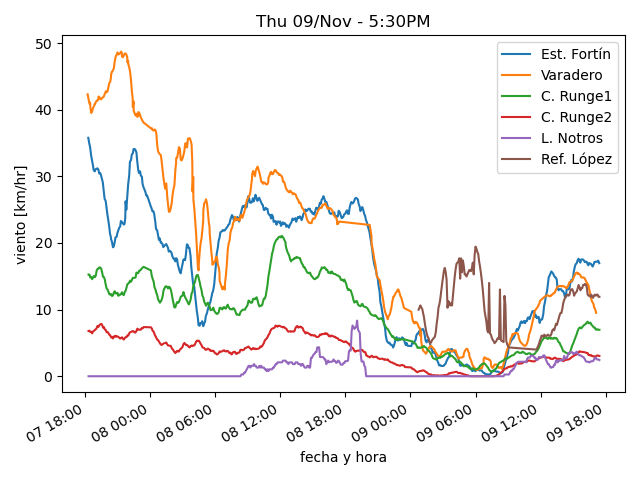
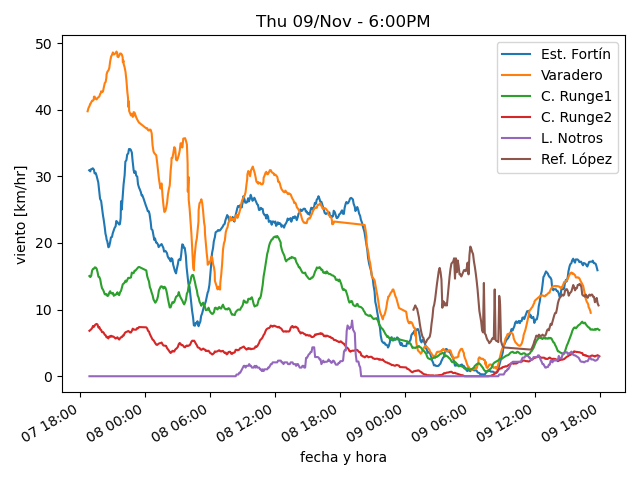
actualiza datos

diff --git a/estaciones/estacion3.html b/estaciones/estacion3.html
@@ -18,32 +18,32 @@
     </tr>
     <tr>
      <td class="stats_data">
-      5:24PM
+      5:54PM
      </td>
     </tr>
     <tr>
      <td class="stats_data">
-      18.8⁰C
+      18.3⁰C
      </td>
     </tr>
     <tr>
      <td class="stats_data">
-      -2.3⁰C
+      -1.8⁰C
      </td>
     </tr>
     <tr>
      <td class="stats_data">
-      23.9%
+      25.4%
      </td>
     </tr>
     <tr>
      <td class="stats_data">
-      1000.54hPa
+      1000.34hPa
      </td>
     </tr>
     <tr>
      <td class="stats_data">
-      4.8/6.6 km/hr WNW
+      4.6/6.2 km/hr WNW
      </td>
     </tr>
     <tr>
@@ -53,12 +53,12 @@
     </tr>
     <tr>
      <td class="stats_data">
-      5.0
+      4.0
      </td>
     </tr>
     <tr>
      <td class="stats_data">
-      491.1 W/m²
+      399.9 W/m²
      </td>
     </tr>
    </tbody>

diff --git a/estaciones/estacion4.html b/estaciones/estacion4.html
@@ -18,32 +18,32 @@
     </tr>
     <tr>
      <td class="stats_data">
-      5:24PM
+      5:54PM
      </td>
     </tr>
     <tr>
      <td class="stats_data">
-      18.8⁰C
+      19.4⁰C
      </td>
     </tr>
     <tr>
      <td class="stats_data">
-      -2.8⁰C
+      -2.2⁰C
      </td>
     </tr>
     <tr>
      <td class="stats_data">
-      22.9%
+      23.1%
      </td>
     </tr>
     <tr>
      <td class="stats_data">
-      1009.41hPa
+      1009.31hPa
      </td>
     </tr>
     <tr>
      <td class="stats_data">
-      1.9/2.6 km/hr SW
+      1.6/2.4 km/hr NE
      </td>
     </tr>
     <tr>
@@ -53,12 +53,12 @@
     </tr>
     <tr>
      <td class="stats_data">
-      0.0
+      3.0
      </td>
     </tr>
     <tr>
      <td class="stats_data">
-      37.6 W/m²
+      317.2 W/m²
      </td>
     </tr>
    </tbody>

diff --git a/estaciones/estacion1.html b/estaciones/estacion1.html
@@ -18,7 +18,7 @@
     </tr>
     <tr>
      <td class="stats_data">
-      5:24PM
+      5:44PM
      </td>
     </tr>
     <tr>
@@ -28,22 +28,22 @@
     </tr>
     <tr>
      <td class="stats_data">
-      -1.1⁰C
+      -2.3⁰C
      </td>
     </tr>
     <tr>
      <td class="stats_data">
-      22.3%
+      20.3%
      </td>
     </tr>
     <tr>
      <td class="stats_data">
-      1008.13hPa
+      1007.79hPa
      </td>
     </tr>
     <tr>
      <td class="stats_data">
-      6.9/12.3 km/hr SSW
+      7.4/14.5 km/hr SSW
      </td>
     </tr>
     <tr>
@@ -53,12 +53,12 @@
     </tr>
     <tr>
      <td class="stats_data">
-      2.2
+      1.8
      </td>
     </tr>
     <tr>
      <td class="stats_data">
-      529.0 W/m²
+      332.0 W/m²
      </td>
     </tr>
    </tbody>

diff --git a/estaciones/estacion6.html b/estaciones/estacion6.html
@@ -18,32 +18,32 @@
     </tr>
     <tr>
      <td class="stats_data">
-      5:25PM
+      5:50PM
      </td>
     </tr>
     <tr>
      <td class="stats_data">
-      12.3⁰C
+      12.6⁰C
      </td>
     </tr>
     <tr>
      <td class="stats_data">
-      -7.1⁰C
+      -7.5⁰C
      </td>
     </tr>
     <tr>
      <td class="stats_data">
-      25.0%
+      24.0%
      </td>
     </tr>
     <tr>
      <td class="stats_data">
-      1009.72hPa
+      1009.55hPa
      </td>
     </tr>
     <tr>
      <td class="stats_data">
-      8.0/12.9 km/hr SW
+      4.8/11.3 km/hr S
      </td>
     </tr>
     <tr>
@@ -58,7 +58,7 @@
     </tr>
     <tr>
      <td class="stats_data">
-      894.0 W/m²
+      889.0 W/m²
      </td>
     </tr>
    </tbody>

diff --git a/estaciones/estacion5.html b/estaciones/estacion5.html
@@ -18,17 +18,17 @@
     </tr>
     <tr>
      <td class="stats_data">
-      5:25PM
+      5:50PM
      </td>
     </tr>
     <tr>
      <td class="stats_data">
-      22.7⁰C
+      22.1⁰C
      </td>
     </tr>
     <tr>
      <td class="stats_data">
-      1.1⁰C
+      0.7⁰C
      </td>
     </tr>
     <tr>
@@ -38,12 +38,12 @@
     </tr>
     <tr>
      <td class="stats_data">
-      1005.55hPa
+      1005.45hPa
      </td>
     </tr>
     <tr>
      <td class="stats_data">
-      0.0/2.6 km/hr N
+      1.1/6.1 km/hr SSE
      </td>
     </tr>
     <tr>
